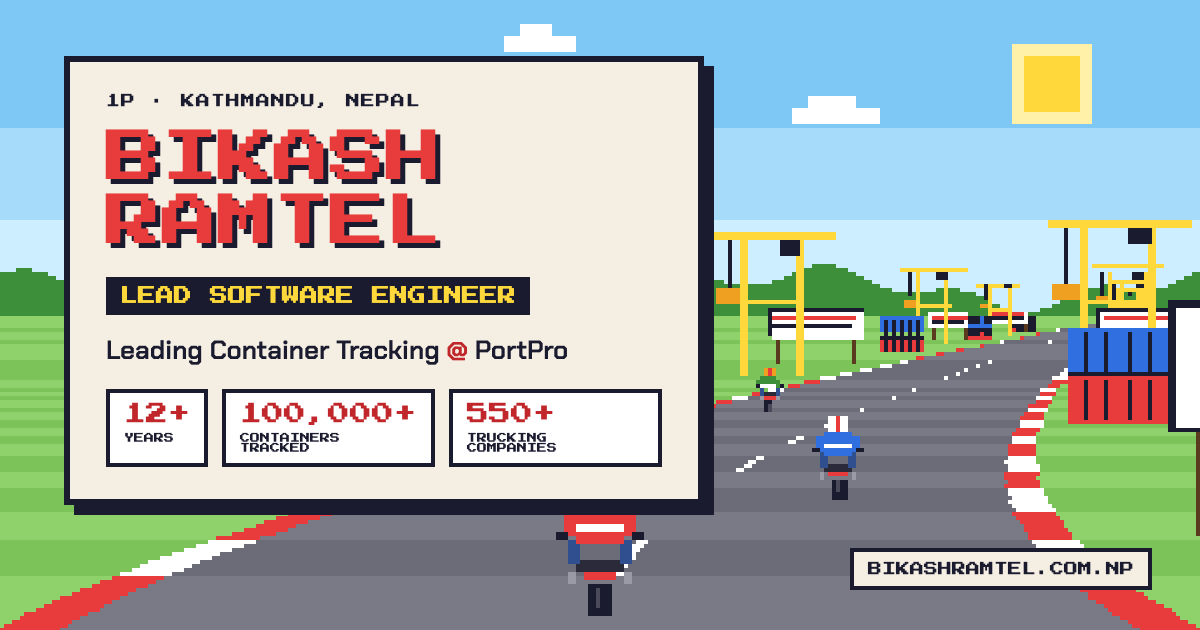
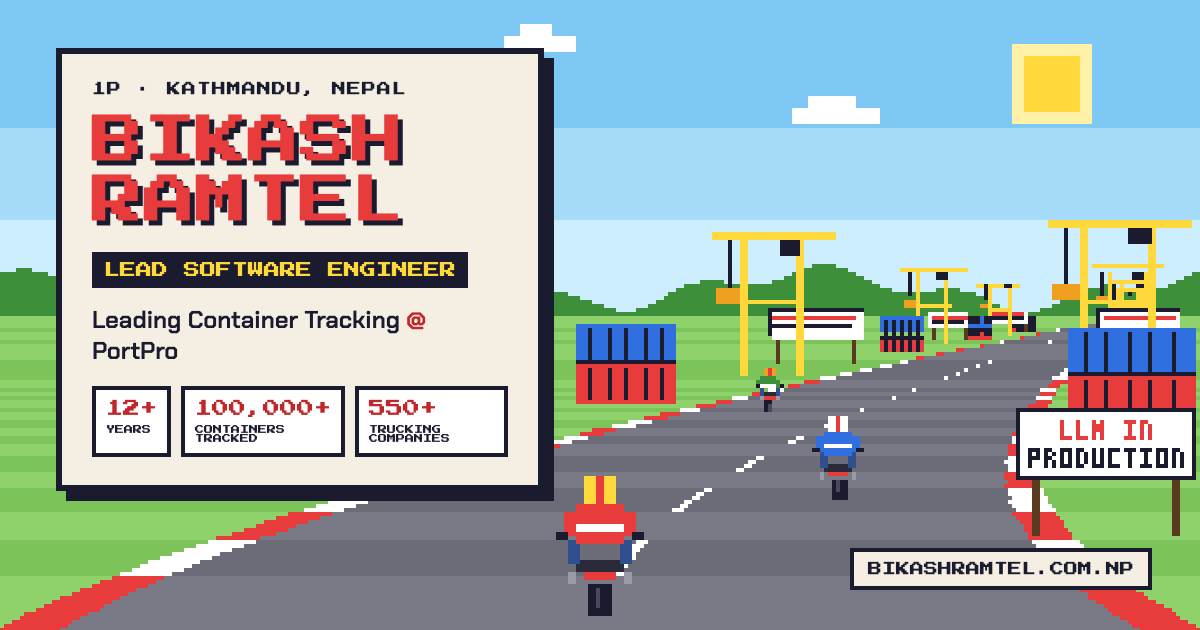
fix: rivals slide off-screen and survive resizes, billboards never clip, no focus band
- Rivals are culled by helmet, not tyre, and keep their positions when
  the mobile URL bar resizes the viewport (rescaleRivals)
- billboardBox: text in whole-pixel cells only when the whole board fits;
  readable boards are pulled on-screen so stats are never truncated
- Stage focus no longer draws the global full-width yellow ring
- Hills snap to whole pixels (no shimmer); fallback section focusable
- OG card narrowed so the rider's helmet shows; test pins the compact
  HUD breakpoint across JS and CSS

Changed region(s): [[0.0308, 0.0603, 0.6167, 0.8444], [0.8325, 0.4524, 1.0, 0.8444]]

diff --git a/src/components/RoadCanvas/sprites.js b/src/components/RoadCanvas/sprites.js
@@ -6,6 +6,7 @@
  */
 
 import { GLYPHS, GLYPH_HEIGHT, textWidth } from '../../game/pixelFont'
+import { boardWidthFor } from '../../game/billboardLayout'
 
 const C = {
   sky1: '#7ec8f5', sky2: '#a6dcfa', sky3: '#cdeefe',
@@ -106,9 +107,10 @@ export function drawSky(ctx, width, horizon) {
  * slides the hills sideways as the road curves (mountains move at half speed).
  */
 export function drawHills(ctx, width, horizon, mountains, shift = 0) {
+  shift = Math.round(shift) // whole pixels, so silhouettes slide instead of shimmering
   if (mountains) {
     for (let x = 0; x < width; x++) {
-      const wx = x + shift * 0.5
+      const wx = x + Math.round(shift * 0.5)
       const h = Math.round(20 + 11 * Math.sin(wx * 0.045) + 7 * Math.sin(wx * 0.13 + 1))
       ctx.fillStyle = ((Math.floor(wx) % 40) + 40) % 40 < 20 ? C.mountain : C.mountainShade
       ctx.fillRect(x, horizon - h, 1, h)
@@ -118,46 +120,44 @@ export function drawHills(ctx, width, horizon, mountains, shift = 0) {
       }
     }
   }
+  ctx.fillStyle = C.grass3
   for (let x = 0; x < width; x++) {
     const wx = x + shift
     const h = Math.round(7 + 4 * Math.sin(wx * 0.06 + 2) + 2 * Math.sin(wx * 0.19))
-    ctx.fillStyle = C.grass3
     ctx.fillRect(x, horizon - h, 1, h)
   }
 }
 
 /**
- * Roadside billboard with two lines of 3×5 pixel text. (x, y) is the base of
- * the board's inner edge post; `side` is -1 (left of road) or 1 (right) and the
- * board extends away from the road. Far boards show placeholder bars instead of text.
+ * Roadside billboard with two lines of 3×5 pixel text. `box` comes from
+ * billboardBox() (src/game/billboardLayout.js): its left edge, its unit size
+ * and whether text is drawn (whole-pixel cells) or placeholder bars.
+ * (y) is the ground line under the posts.
  */
-export function drawBillboard(ctx, lines, x, y, scale, side) {
-  const boardW = Math.max(...lines.map(textWidth)) + 6
+export function drawBillboard(ctx, lines, box, y) {
+  const boardW = boardWidthFor(lines)
   const boardH = 2 * GLYPH_HEIGHT + 2 + 6
   const postH = 14
-  const left = side > 0 ? x : x - boardW * scale
-  const top = y - (postH + boardH) * scale
+  const u = box.unit
+  const left = box.left
+  const top = y - (postH + boardH) * u
   const fill = (rx, ry, rw, rh, color) => {
     ctx.fillStyle = color
-    ctx.fillRect(Math.round(left + rx * scale), Math.round(top + ry * scale), Math.max(1, Math.round(rw * scale)), Math.max(1, Math.round(rh * scale)))
+    ctx.fillRect(Math.round(left + rx * u), Math.round(top + ry * u), Math.max(1, Math.round(rw * u)), Math.max(1, Math.round(rh * u)))
   }
   fill(4, boardH, 2, postH, C.bark)
   fill(boardW - 6, boardH, 2, postH, C.bark)
   fill(0, 0, boardW, boardH, C.ink)
   fill(1, 1, boardW - 2, boardH - 2, C.white)
-  // Text only when each font pixel gets at least one whole screen pixel; snap
-  // to whole cells so glyphs stay crisp instead of drifting apart.
-  const cell = Math.floor(scale)
-  if (cell < 1) {
+  if (!box.showText) {
     fill(3, 4, boardW - 6, 2, C.rumble)
     fill(3, 10, boardW - 8, 2, C.ink)
     return
   }
-  const boardLeft = Math.round(left)
-  const boardWidthPx = Math.round(boardW * scale)
-  const textTop = Math.round(top + 3 * scale)
+  const cell = box.cell
+  const textTop = Math.round(top) + 3 * cell
   lines.forEach((line, row) => {
-    const lineLeft = boardLeft + Math.round((boardWidthPx - textWidth(line) * cell) / 2)
+    const lineLeft = Math.round(left) + Math.floor((boardW - textWidth(line)) / 2) * cell
     const lineTop = textTop + row * (GLYPH_HEIGHT + 2) * cell
     ctx.fillStyle = row === 0 ? C.rumble : C.ink
     ;[...line].forEach((ch, i) => {

diff --git a/src/game/review2.test.js b/src/game/review2.test.js
@@ -1,0 +1,60 @@
+import { test } from 'node:test'
+import assert from 'node:assert/strict'
+import { readFileSync } from 'node:fs'
+import { isRiderOnScreen, rescaleRivals, spawnRivals } from './rivals.js'
+import { billboardBox } from './billboardLayout.js'
+import { textWidth } from './pixelFont.js'
+import { COMPACT_HUD_QUERY } from './viewport.js'
+
+// ── Rivals slide off-screen instead of blinking out ─────────────────────
+test('a rival whose tyre is below the ground line but whose body still shows stays drawn', () => {
+  assert.equal(isRiderOnScreen(170, 1, 160), true)   // top at 135 < 160
+  assert.equal(isRiderOnScreen(200, 1, 160), false)  // top at 165 > 160
+})
+
+// ── Resizes (mobile URL bar) keep rivals where they are ─────────────────
+test('rescaleRivals keeps relative positions instead of respawning', () => {
+  const rivals = [{ z: 30000, lane: 0.45, jacket: 'blue' }]
+  assert.deepEqual(rescaleRivals(rivals, 90000, 90000), rivals)
+  assert.equal(rescaleRivals(rivals, 90000, 45000)[0].z, 15000)
+  assert.deepEqual(rescaleRivals([], 0, 90000), spawnRivals(90000))
+})
+
+// ── Billboards: text only when the whole board fits on the canvas ───────
+const BOARD_W = textWidth('550+ TRUCKING') + 6
+
+test('narrow phone canvas: a readable board is pulled fully on-screen', () => {
+  const box = billboardBox({ anchorX: 160, side: 1, scale: 0.8, boardW: BOARD_W, canvasWidth: 180 })
+  assert.equal(box.showText, true)
+  assert.ok(box.left >= 1 && box.left + box.widthPx <= 179, JSON.stringify(box))
+})
+
+test('left-side boards are pulled on-screen too', () => {
+  const box = billboardBox({ anchorX: 10, side: -1, scale: 1.2, boardW: BOARD_W, canvasWidth: 320 })
+  assert.ok(box.left >= 1, JSON.stringify(box))
+})
+
+test('distant boards show placeholder bars and are not moved', () => {
+  const box = billboardBox({ anchorX: 200, side: 1, scale: 0.3, boardW: BOARD_W, canvasWidth: 320 })
+  assert.equal(box.showText, false)
+  assert.equal(box.left, 200)
+})
+
+test('text cells are whole pixels and the board is sized from them', () => {
+  const box = billboardBox({ anchorX: 200, side: 1, scale: 2.4, boardW: BOARD_W, canvasWidth: 640 })
+  assert.equal(box.cell, 2)
+  assert.equal(box.widthPx, BOARD_W * 2)
+})
+
+test('a board too wide for the canvas never shows clipped text', () => {
+  const box = billboardBox({ anchorX: 150, side: 1, scale: 5, boardW: BOARD_W, canvasWidth: 180 })
+  assert.ok(!box.showText || box.widthPx <= 178, JSON.stringify(box))
+})
+
+// ── The compact-HUD breakpoint is the same in JS and every stylesheet ───
+test('COMPACT_HUD_QUERY matches the CSS media queries', () => {
+  for (const f of ['../styles/global.css', '../components/Hud/Hud.module.css', '../components/StartLine/StartLine.module.css']) {
+    const css = readFileSync(new URL(f, import.meta.url), 'utf8')
+    assert.ok(css.includes(`@media ${COMPACT_HUD_QUERY}`), f)
+  }
+})

diff --git a/scripts/generate-og-image.html b/scripts/generate-og-image.html
@@ -21,25 +21,25 @@
   body { width: 1200px; height: 630px; overflow: hidden; position: relative; background: #cdeefe; }
   canvas { position: absolute; inset: 0; width: 1200px; height: 632px; image-rendering: pixelated; }
   .card {
-    position: absolute; left: 64px; top: 56px; width: 640px; padding: 32px 36px;
+    position: absolute; left: 56px; top: 48px; width: 488px; padding: 28px 30px;
     background: #f4efe2; border: 6px solid #1b1b2f; box-shadow: 10px 10px 0 #1b1b2f;
     font-family: 'Chakra Petch', sans-serif; color: #1b1b2f;
   }
   .player { font: 14px 'Press Start 2P', monospace; letter-spacing: 1px; }
   h1 {
-    margin-top: 18px; font: 56px/1.15 'Press Start 2P', monospace; color: #e83b3b;
+    margin-top: 16px; font: 52px/1.15 'Press Start 2P', monospace; color: #e83b3b;
     text-shadow: 5px 5px 0 #1b1b2f;
   }
   .role {
-    display: inline-block; margin-top: 22px; padding: 10px 14px; background: #1b1b2f; color: #ffd93b;
-    font: 18px 'Press Start 2P', monospace;
+    display: inline-block; margin-top: 20px; padding: 10px 12px; background: #1b1b2f; color: #ffd93b;
+    font: 16px 'Press Start 2P', monospace;
   }
-  .line { margin-top: 18px; font-size: 26px; font-weight: 600; }
+  .line { margin-top: 16px; font-size: 24px; font-weight: 600; }
   .line span { color: #c0262a; }
-  .stats { display: flex; gap: 14px; margin-top: 22px; }
-  .stat { padding: 10px 14px; background: #fff; border: 4px solid #1b1b2f; }
-  .stat b { display: block; font: 22px 'Press Start 2P', monospace; color: #c0262a; }
-  .stat small { display: block; margin-top: 8px; font: 10px 'Press Start 2P', monospace; }
+  .stats { display: flex; gap: 10px; margin-top: 20px; }
+  .stat { padding: 10px 10px; background: #fff; border: 4px solid #1b1b2f; }
+  .stat b { display: block; font: 17px 'Press Start 2P', monospace; color: #c0262a; }
+  .stat small { display: block; margin-top: 8px; font: 9px 'Press Start 2P', monospace; }
   .url {
     position: absolute; right: 48px; bottom: 40px; padding: 10px 14px; background: #f4efe2;
     border: 4px solid #1b1b2f; font: 14px 'Press Start 2P', monospace; color: #1b1b2f;

diff --git a/src/components/RoadCanvas/scene.js b/src/components/RoadCanvas/scene.js
@@ -6,6 +6,8 @@
 import { projectRoad } from '../../game/road'
 import { sceneryFor } from '../../game/scenery'
 import { billboardsFor } from '../../data/billboards'
+import { billboardBox, boardWidthFor } from '../../game/billboardLayout'
+import { isRiderOnScreen } from '../../game/rivals'
 import { PALETTE as C, RIDERS, drawSky, drawHills, drawBike, drawSprite, drawBillboard } from './sprites'
 
 export const CAMERA_HEIGHT = 1000   // must match projectRoad's default
@@ -79,7 +81,9 @@ export function drawScene(ctx, {
     const gap = 24 * size
     const kind = kinds[Math.floor(g / 2) % kinds.length]
     if (kind === 'billboard') {
-      drawBillboard(ctx, messages[g % messages.length], center + side * (roadEdge + gap * 0.5), y, size, side)
+      const lines = messages[g % messages.length]
+      const box = billboardBox({ anchorX: center + side * (roadEdge + gap * 0.5), side, scale: size, boardW: boardWidthFor(lines), canvasWidth: width })
+      drawBillboard(ctx, lines, box, y)
     } else {
       drawSprite(ctx, kind, center + side * (roadEdge + gap), y, size)
     }
@@ -89,7 +93,7 @@ export function drawScene(ctx, {
   for (const r of [...rivals].sort((a, b) => b.z - a.z)) {
     if (r.z < NEAR_Z || r.z > farZ) continue
     const { y, scale, center } = project(r.z)
-    if (y > groundBottom + 2) continue
+    if (!isRiderOnScreen(y, scale, groundBottom)) continue
     const halfWidth = 0.9 * (width / 2) * scale
     drawBike(ctx, center + r.lane * halfWidth, y, 0, scale, RIDERS[r.jacket])
   }

diff --git a/src/components/RoadCanvas/RoadCanvas.jsx b/src/components/RoadCanvas/RoadCanvas.jsx
@@ -3,7 +3,7 @@ import styles from './RoadCanvas.module.css'
 import usePrefersReducedMotion from '../../hooks/usePrefersReducedMotion'
 import { curveAt } from '../../game/road'
 import { nextSpeed, normalizedDelta, toMph, OFFSET_PER_SPEED } from '../../game/speed'
-import { spawnRivals, stepRivals } from '../../game/rivals'
+import { rescaleRivals, stepRivals } from '../../game/rivals'
 import { canvasLayout, COMPACT_HUD_QUERY } from '../../game/viewport'
 import { publishMph } from '../../game/telemetry'
 import { drawScene, paintSky, farZFor, NEAR_Z } from './scene'
@@ -50,6 +50,7 @@ export default function RoadCanvas({ activeStageId = null }) {
     let lean = 0
     let hillShift = 0
     let rivals = []
+    let lastFarZ = 0
     let lastY = window.scrollY
     let lastT = null
     let lastMphAt = 0
@@ -65,7 +66,9 @@ export default function RoadCanvas({ activeStageId = null }) {
       height = canvas.height = layout.height
       groundBottom = layout.groundBottom
       paintSky(bgCtx, width, height, groundBottom)
-      rivals = spawnRivals(farZFor(height, groundBottom))
+      const farZ = farZFor(height, groundBottom)
+      rivals = rescaleRivals(rivals, lastFarZ, farZ) // mobile URL-bar resizes must not reset them
+      lastFarZ = farZ
     }
 
     const render = () => {

diff --git a/src/game/billboardLayout.js b/src/game/billboardLayout.js
@@ -1,0 +1,29 @@
+/**
+ * Where a roadside billboard sits on the canvas, and whether its text shows.
+ *
+ * Text is drawn in whole-pixel cells and only when the entire board fits on
+ * the canvas — a readable board is nudged fully on-screen so a stat is never
+ * shown truncated ("100,00"). Distant boards keep their perspective size and
+ * show placeholder bars instead of text.
+ */
+
+import { textWidth } from './pixelFont.js'
+
+const TEXT_MIN_SCALE = 0.55
+
+export const boardWidthFor = lines => Math.max(...lines.map(textWidth)) + 6
+
+export function billboardBox({ anchorX, side, scale, boardW, canvasWidth }) {
+  let cell = scale >= TEXT_MIN_SCALE ? Math.max(1, Math.floor(scale)) : 0
+  while (cell >= 1 && boardW * cell > canvasWidth - 2) cell--
+
+  if (cell >= 1) {
+    const widthPx = boardW * cell
+    const raw = side > 0 ? anchorX : anchorX - widthPx
+    const left = Math.round(Math.min(canvasWidth - 1 - widthPx, Math.max(1, raw)))
+    return { showText: true, cell, unit: cell, left, widthPx }
+  }
+
+  const widthPx = boardW * scale
+  return { showText: false, cell: 0, unit: scale, left: side > 0 ? anchorX : anchorX - widthPx, widthPx }
+}

diff --git a/src/game/rivals.js b/src/game/rivals.js
@@ -25,3 +25,18 @@ export function stepRivals({ rivals, playerSpeed, dt, farZ, nearZ, rand = Math.r
     return { ...r, z: Math.min(z, farZ) }
   })
 }
+
+// Rider sprite height in local units (helmet top to tyre), at scale 1.
+export const RIDER_HEIGHT = 35
+
+/** Keep drawing a rival until its helmet, not its tyre, passes the ground line. */
+export function isRiderOnScreen(y, scale, groundBottom) {
+  return y - RIDER_HEIGHT * scale <= groundBottom
+}
+
+/** On resize, keep rivals where they were (scaled to the new depth range). */
+export function rescaleRivals(rivals, oldFarZ, newFarZ) {
+  if (!rivals.length || !oldFarZ) return spawnRivals(newFarZ)
+  if (oldFarZ === newFarZ) return rivals
+  return rivals.map(r => ({ ...r, z: r.z * (newFarZ / oldFarZ) }))
+}

diff --git a/src/components/ErrorBoundary/ErrorBoundary.jsx b/src/components/ErrorBoundary/ErrorBoundary.jsx
@@ -38,7 +38,7 @@ export default class ErrorBoundary extends Component {
     if (this.state.hasError) {
       const { icon, text, btn } = this.state.message
       return (
-        <section id={this.props.id} className={styles.fallback}>
+        <section id={this.props.id} className={styles.fallback} tabIndex={-1}>
           <span className={styles.icon}>{icon}</span>
           <p className={styles.text}>{text}</p>
           <button

diff --git a/src/components/Stage/Stage.module.css b/src/components/Stage/Stage.module.css
@@ -4,7 +4,7 @@
 }
 
 /* Focus lands here from PRESS START; the panel inside shows it. */
-.stage:focus { outline: none; }
+.stage:focus { outline: none; box-shadow: none; }
 .stage:focus-visible .panel { outline: 3px solid var(--ink); outline-offset: 4px; }
 
 .panel {
